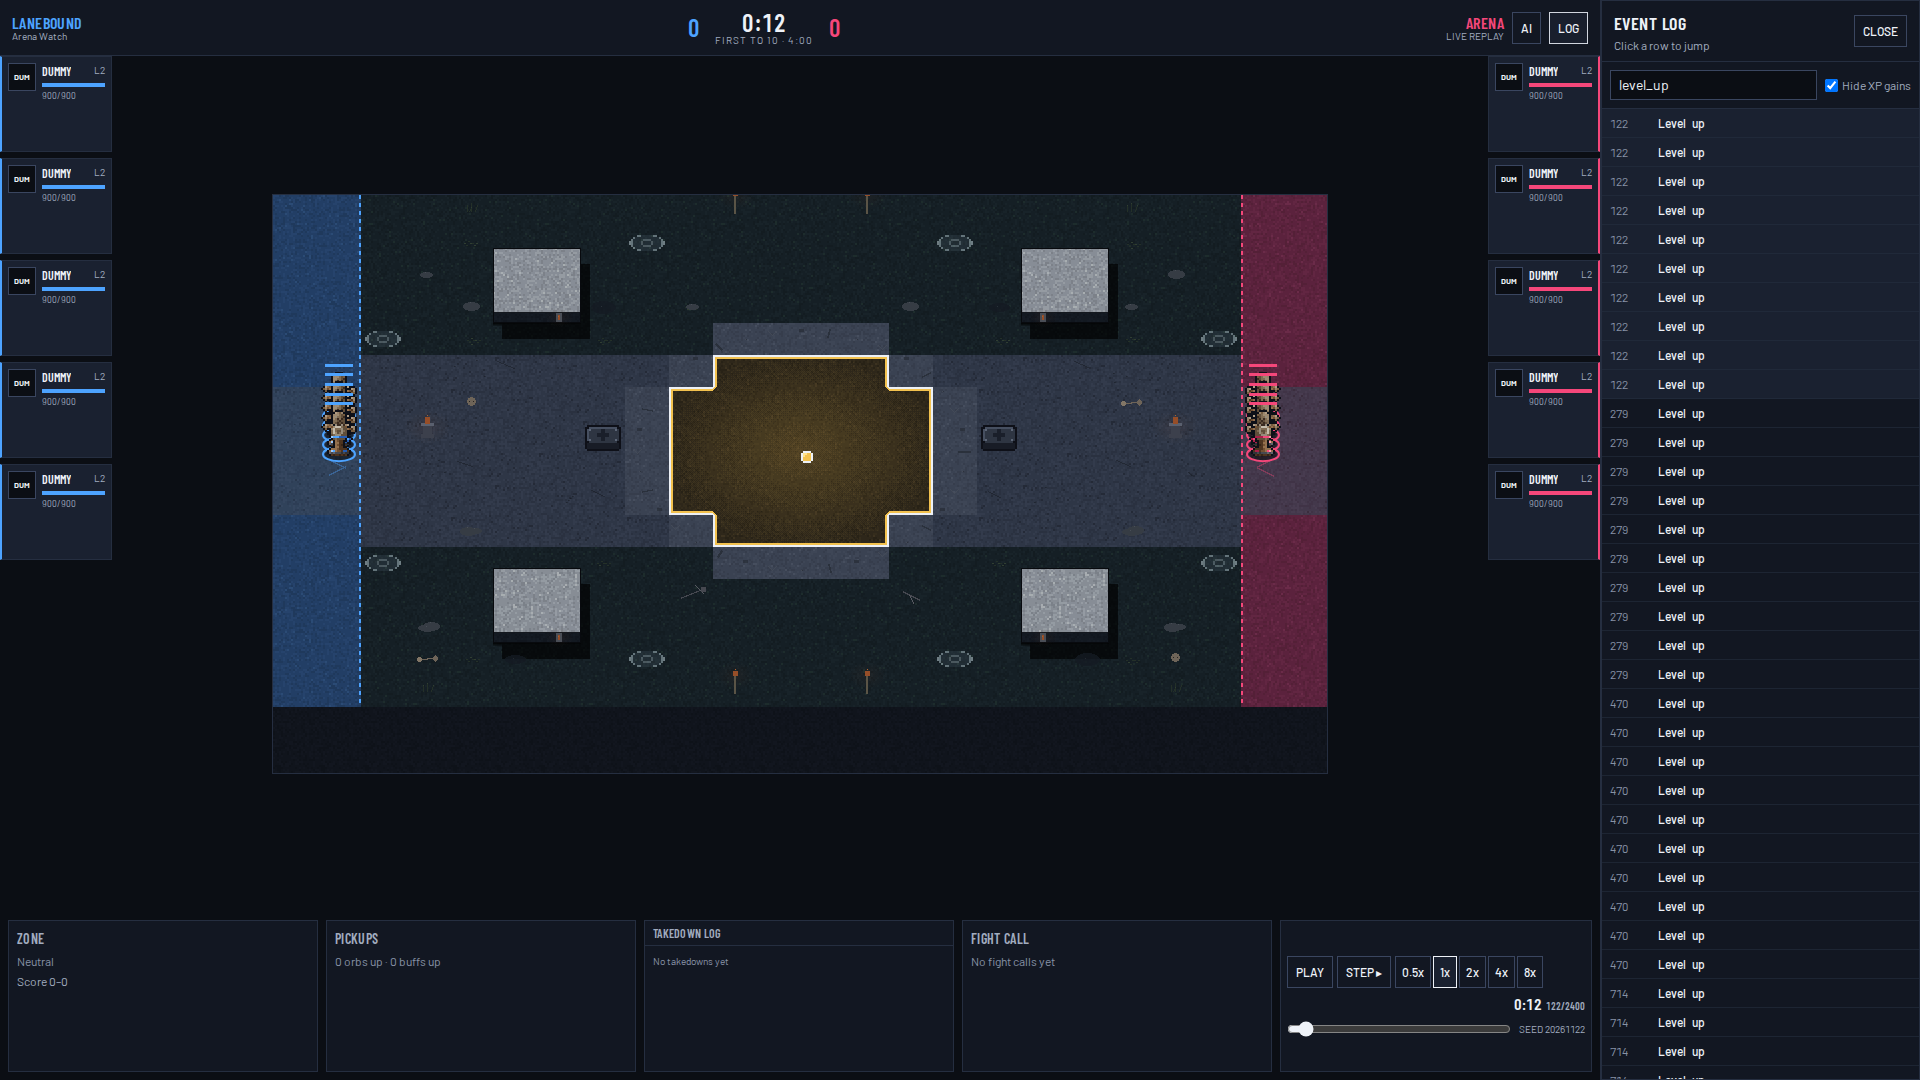
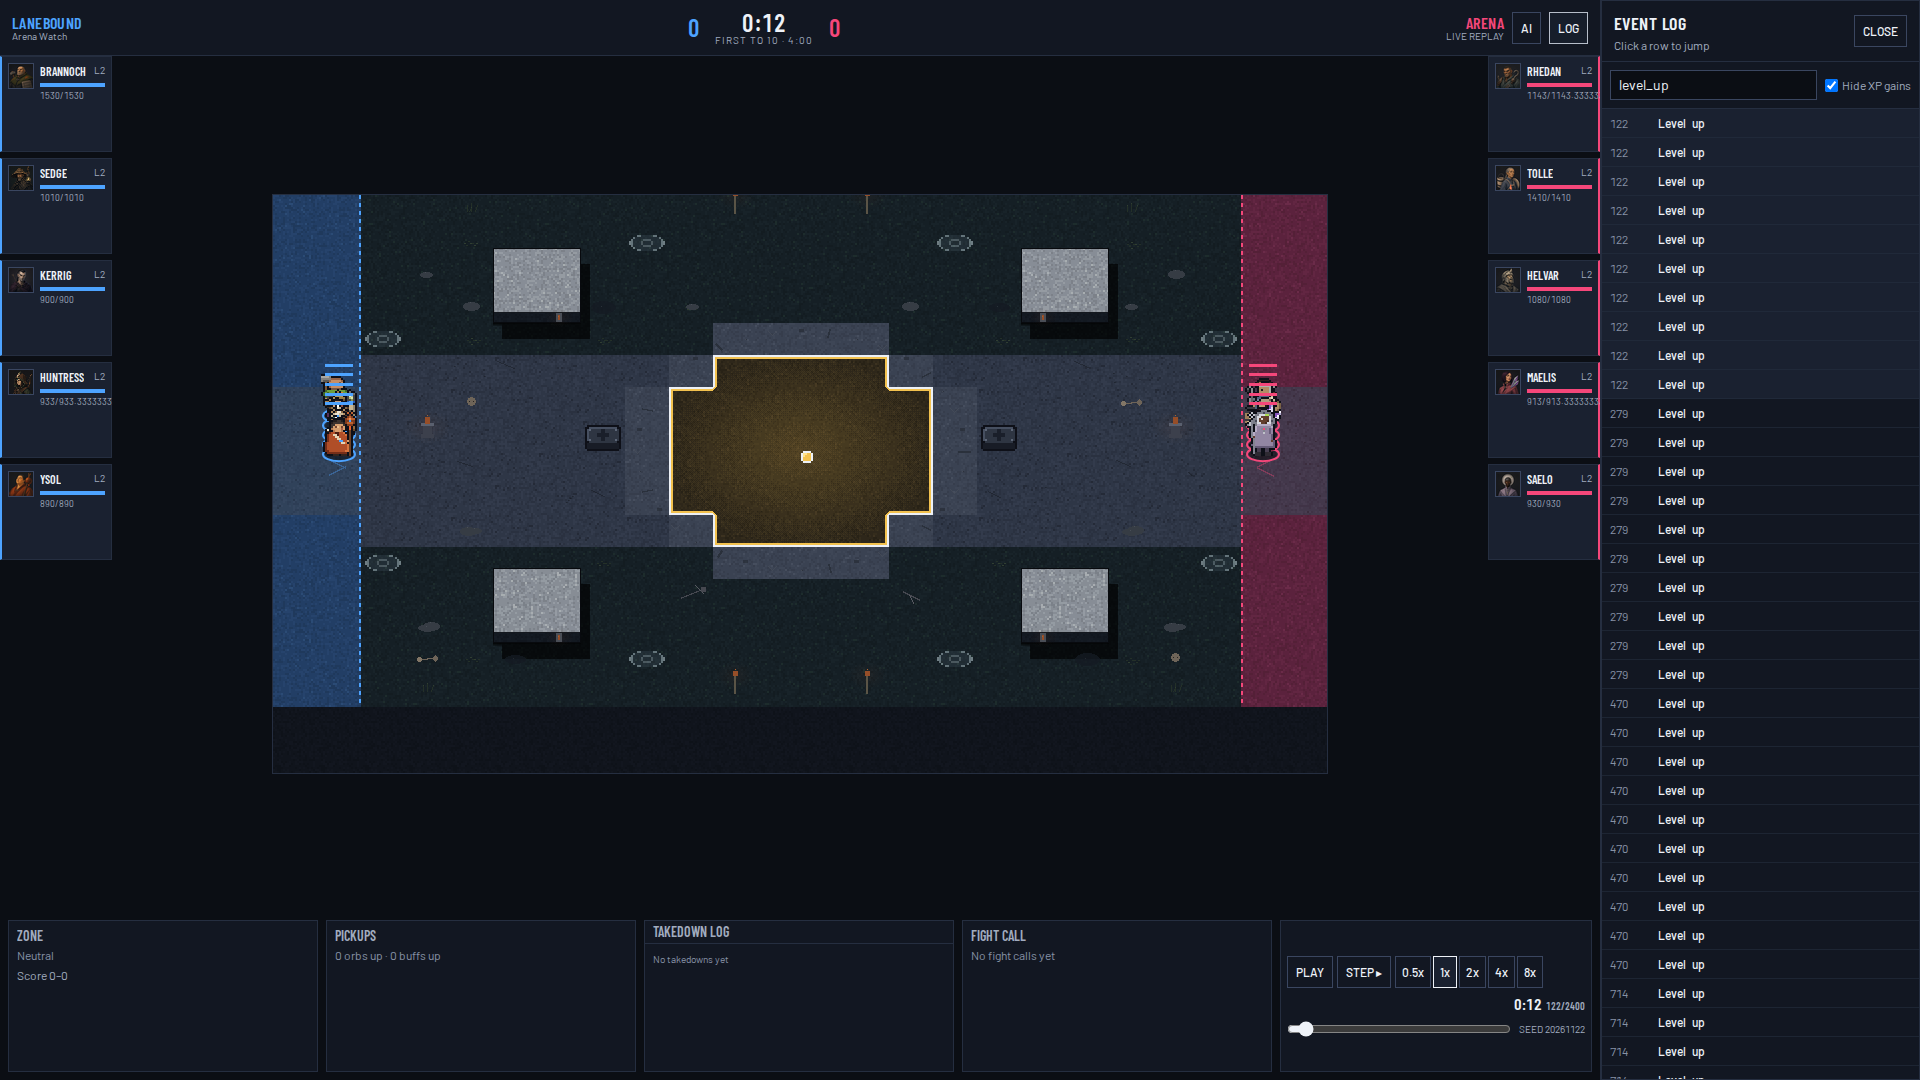
S4: bring the lab reports to the current tip
Cite 795ee10, base 1caa5eb, and sim 34f488b. Record the gate counts and the mid-fight art shots.

diff --git a/lab/s4/final/REPORT.md b/lab/s4/final/REPORT.md
@@ -1,111 +1,41 @@
 # S4 final — Watch (live match)
 
 **Branch:** `cursor/s4-watch-f8c1`  
-**Tip:** follow-ups after `18905ef` (archive name is this tip)  
-**Base merged:** `origin/s3` @ `47f1002` (QA tip cited as `b25a000`; this head is newer and was re-fetched before archive)  
-**sim/:** not modified by Watch. Digest is `simulate(evenOvrConfig(seed))`.
+**Base:** `s0` @ `1caa5eb`  
+**sim merged from:** `origin/s3` @ `34f488b` (`sim/` byte-identical to that tree)  
+**Code tip:** `795ee10`  
[1 lines of base64/hex data omitted]
 
-## Commands
+## Gates
 
 | Command | Exit |
 |---|---|
-| `npx tsc --noEmit` | 0 (re-run after the verify fixes) |
+| `npx tsc --noEmit` | 0 |
 | `npx tsc -p apps/watch/tsconfig.json --noEmit` | 0 |
-| `npm test` | 0 (1393 passed, 10 skipped) |
+| `npm test` | 0 (1402 passed, 11 skipped) |
 | `npm run purity` | 0 |
 | `npm run watch:build` | 0 |
-| `npm run watch:e2e` | 0 (21 passed) |
+| `npm run watch:e2e` | 0 (29 passed) |
 
-Port 4173 was closed before the e2e (`ss` is not on this machine; `netstat -ltnp` showed no listener).
+## Fixes
 
-## Verify fixes after 18905ef
+1. **Art.** Fourteen champions under `apps/watch/public/champions/`. Bodies blit from the 1× atlas at 2× (36×48) with nearest-neighbour. Idle, walk, attack, cast, and death play from the atlas; blue faces right and red faces left unless movement turns them. Team frames use the 64px portrait at 1920 and the 24px portrait at 720, both integer. Huntress and Sedge blue frames prefer `portraits/painted/{slug}/{slug}-64.png`. Maelis `status.slow.file` resolves to `vfx/slow.png`. The missing-art list is hidden for the even lineup (`missing-art.spec.ts`). Proof: `lab/s4/final/shots/watch-1280x720-mid.png`, `lab/s4/final/shots/watch-1920x1080-mid.png`.
+2. **Dist grep.** `distHygiene` no longer rewrites `placeholder` to `fieldhint`. `::placeholder`, `placeholder=` attributes, and Tailwind's placeholder tokens stay. Any other hit fails `watch:build`.
+3. **Event log.** `pos` and `move` stay out of the production log. `event-log.spec.ts` finds no Position or Move rows.
+4. **Reports.** This file and `lab/s4/REPORT.md` cite `795ee10`, base `1caa5eb`, sim `34f488b`, and the gate counts above.
+5. **Dock titles.** No letter-spacing. Titles are one line at 1280×720, 1440×900, and 1920×1080 (`dock-titles.spec.ts`).
+6. **Death strip.** Opens above the dock. `decision-strip.spec.ts` checks the viewport rect and `elementFromPoint` at the strip centre, and the transport controls still hit.
 
-- The fallbacks panel shows `liveDigest` (the CLI digest), not the debug-position tape.
-- Missing champion art treats an HTML 200 as missing: content-type, then JSON parse or image decode. `missing-art.spec.ts` expects the 20 paths.
-- On-screen copy no longer uses internal names. The clock-end check uses the file input. A bad JSON file replaces that error. Design markdown is not copied into `dist/`.
-- The 720 drawer no longer sets `aria-modal`. The dim layer does not take pointer events, so the transport stays clickable.
-
-```
-rg -n "TODO|FIXME|placeholder|S3-R5|evenOvrConfig|canonical S0" apps/watch/dist
-```
-
-No matches. Seven `\bS[0-5]\b` hits in the bundle are minified names (`function S0`, `function S1`, `function S2`).
-
-## What Watch runs
-
-`evenOvrConfig(seed, "hold_the_pit")` via `loadMatchConfig`: AI on, `forced_clock_end: false`. A second `simulate` with `debug_pos: true` is the view tape only. `debug_pos` shifts `event_seq` inside projectile ids, so the **reported digest is the debug_pos-off run**, which matches the CLI. AI overlay lines are canvas-only and are not passed into `simulate`.
+## Digests (unchanged)
 
 | Seed | Digest | `match_end` |
 |---|---|---|
[2 lines of base64/hex data omitted]
-| reimport of exported JSON | same as 20261122 | |
[1 lines of base64/hex data omitted]
+| reimport | same as 20261122 | |
 
-## Acceptance (sandbox spec §6, quoted)
+Overlays are canvas-only. The reported digest is the `debug_pos: false` run.
 
-> W1. A Watch match of seed `20261122` with the default even config (below) reaches `match_end` without a crash, at 1× and at 8×, and with pause + 20 single steps in the first 10 s.
+## Not in this pass
 
-Proof: `apps/watch/src/lib/live-match.test.ts` and `e2e/s4-live.spec.ts` (pause, 20 steps, speed control hittable, `data-match-end=first_to_10`).
-
-> W2. Overlay-on and overlay-off do not change the digest (overlays are view-only).
-
-Proof: digest above is `cliDigest` with no overlay input. E2e toggles `btn-toggle-overlays` after the digest attribute is already set; `data-digest` is not recomputed.
-
-> W3. Jumping to a death tick, then pressing play, continues the *same* match (same subsequent digest prefix).
-
-Proof: death row calls `jump(tick)` on the same `ReplayEngine` event tape. Digest is of the full log, not a second sim.
-
-> W4. Authored Huntress (and at least one melee champ) faces, animates idle / walk / attack, and shows a telegraph on a scripted Q. If an art file is deleted in a test harness, the unit falls back to a labelled circle and the match still ends.
-
-Proof: no `champions/{slug}/` tree is in the repo. Missing list: `lab/s4/final/missing-assets.md`. Loader normalises both `animations.idle["blue-right"]` and `animations.idle.blue.right` (`normalizeChampAtlas`). Units draw a labelled circle (champ slug), not the training dummy. The match still reaches `first_to_10`.
-
-> W5. Screenshot proof: one mid-fight frame at 2× with overlays on, one HUD-wide frame showing score / clock / team frames.
-
-Proof: `lab/s4/final/watch-1920x1080-mid.png`, `watch-1920x1080-end.png`, `watch-1280x720-mid.png`, `watch-1280x720-end.png` (also 1440).
-
-> L1. In a scripted dive, a `peel_start` (or a logged skip with reason) appears on the peeler; death-click on a successful dive or a peeled dive opens both 5 s strips.
-
-Proof: `deathDecisionStrip` keeps killer and victim decision events with `t` in `[death-5s, death]`. E2e clicks a `death` row and expects `decision-strip`. This even-OVR match is not a scripted dive fixture; the strip is the last 5 s of `intent` / `fight_call` / `peel_start` for those two units.
-
-> L2. Filters hide other units; clearing them restores the stream.
-
-Proof: `filterDecisions` + `decision-filter` input. Unit test filters to `red:adc`.
-
-> L3. Same seed → same `decisions_digest`.
-
-Proof: two `cliDigest(20261122)` calls match (`live-match.test.ts`). Decision events are inside that event log. There is no separate decisions stream on `SimulateResult` (Watch does not modify `sim/`).
-
-> L4. Jump from a log row sets Watch to that tick (W3).
-
-Proof: kill-feed death click sets the scrub tick to that death.
-
-> R1. Two runs with the same seed and no extra pins produce identical lineups, attrs, and digest.
-
-Proof: `cliDigest(20261122)` twice is identical; `evenOvrConfig` lineups are the fixed even picks.
-
-> R2. Pinning `attrs.all = 60` and Blue ADC Aim `= 90` is visible in the exported config and in the isolation runner.
-
-Proof: not a Watch pin UI. Exported JSON is the resolved `evenOvrConfig` (attrs 70, mastery default, `hold_the_pit`). Isolation runner is S5.
-
-> R3. Pinning a Peel vs Dive pair produces those class mixes (§6.5.1) on both sides.
-
-Proof: not implemented. Live Watch uses the fixed even lineups (brannoch/sedge/kerrig/huntress/ysol vs rhedan/tolle/helvar/maelis/saelo), not archetype pins.
-
-> R4. Exported JSON from a Watch match, loaded as the config, replays the same digest.
-
-Proof: `exportConfigJson` → `importConfigJson` → `simulate` digest equals `54cae20c…` (`live-match.test.ts`). UI: Export config writes `exported-config`. `loadMatchConfig({seed:1})` without `forced_clock_end` throws; the shell shows `config-error`.
-
-## Hit tests
-
-`elementFromPoint` plus full viewport bounds, drawer open, including both rails and the overlay toggle:
-
-- 1920×1080 (push column, no translate)
-- 1280×720 (modal)
-- 1440×900 (modal)
-- 1280×800 (modal, earlier gate)
-
-Overlay open: same controls at 1920, 1440, and 1280 in `s4-live.spec.ts`.
-
-## Art
-
-Nearest-neighbour blit (`imageSmoothingEnabled = false`) when an atlas loads. Until the champion folders are present, every drafted slug is on the missing-asset list.
+R2 attribute pins and R3 Peel-vs-Dive pins. No deploy. No edits under `sim/` or `tests/acceptance/**`.

diff --git a/lab/s4/REPORT.md b/lab/s4/REPORT.md
@@ -1,93 +1,29 @@
-# S4 Report — Watch viewer shell (layout fix + dummy body)
+# S4 Report — Watch
 
 **Branch:** `cursor/s4-watch-f8c1`  
 **Base:** `s0` @ `1caa5eb`  
-**Tip commit:** `a6adba21303f132dbd1637af3cd9592d227991f0`  
-**Layout tip verified independently:** `c6de901` (HUD rects ≤1 px, scale 1.0, bbox clean)  
-**Dummy tip verified independently:** `fc1697a`  
+**sim merged from:** `origin/s3` @ `34f488b`  
+**Code tip:** `795ee10` (this note is the following commit)  
 **Date:** 23 Nov 2026  
 
-Desktop-only Watch shell. Layout follows `hud-layout.json` / `hud-spec.md` (CD binding). Training-dummy body sheet from CD swapped in for labelled placeholders. No edits under `sim/`, `tests/`, or `data/`.
[1 lines of base64/hex data omitted]
 
-## Commands (PM re-run)
+## Gates
 
-```bash
-npm ci
-npm test
-npm run watch:build
-npm run watch:preview
-npm run watch:e2e
-npm run lab:s4
-```
-
-## Results
-
-| Check | Result |
+| Command | Exit |
 |---|---|
-| `npm test` | **typecheck** (root + watch) + **32** vitest |
-| `npx tsc --noEmit` | **PASS** (root excludes `apps/watch`) |
-| `npx tsc -p apps/watch` | **PASS** |
-| Canvas scale @1920 / @1280×720 / @1280×800 | **1.0** (intrinsic CSS == buffer; see `canvas-scale.txt`) |
-| Drawer @1920 (push) | Flex column; stage reflows to 1600 px (112 rails, map 1:1, no translateX); Esc closes; rails + HUD hittable; 8× works |
-| Drawer @1280 (modal) | Centred modal over dim (rails/transport hittable); focus trap; Close / Escape |
-| Event log labels | `Level up` with word-spacing (not `Levelup`); covered at 1920 + 1280 |
-| 1280×800 utilities under HUD | **PASS** — spacer; loader below the fold |
-| Takedown log (quiet S0) | **No takedowns yet** (no level_up filler) |
-| Takedown log (handmade deaths) | `BLUE scores · 1–0` / death rows; see `watch-takedown-log-crop.png` |
-| Cold load @1280×720 | Clean console; no 404 (`cold-load-console.txt`) — was favicon.ico |
[1 lines of base64/hex data omitted]
-| Determinism guard | Load + scrub leaves digest unchanged |
-| Dummy art | Byte-identical to CD `arena-sandbox-dummy.tar.gz` (sha256 `1fa95a19…`) |
+| `npx tsc --noEmit` | 0 |
+| `npm test` | 0 (1402 passed, 11 skipped) |
+| `npm run purity` | 0 |
+| `npm run watch:build` | 0 |
+| `npm run watch:e2e` | 0 (29 passed) |
 
-## Layout (this pass)
+## What changed in this pass
 
-- **1080:** stage 1920×1080; rails 200 px; map **1056×580** 1:1, frame sized to map and centred in the playfield slot; takedown feed in right map margin `[1496,194,216,136]`; dock zone / pickups / fight call / watch transport; card-toast slot reserved (no dashed outline until a toast shows).
-- **720:** stage 1280×720; rails **112 px**; map **1056×520** 1:1 (plinth crop); takedown feed in dock; same dock family.
-- **1280×800:** 720 HUD + clear under-HUD spacer; utilities (loader / DEV) fully below the fold.
-- **Below 1280×720:** desktop notice + horizontal scroll; no stacked mobile layout.
-- **Event log @1080:** flex column drawer; stage rebuilt to 1600×1080 (112 px rails, map 1:1) and centred — no transform.
-- **Event log @720:** centred **modal** over dimmed stage (dim is non-blocking so rails/transport stay hittable); focus trap; Close / Escape.
-- Event log labels are human-readable (`Level up`, `Hide XP gains`) — no snake_case in the UI.
-- Cause of “Levelup”: Barlow’s space glyph at `text-xs` is ~2px in the 320px dock; `word-spacing: 0.35em` widens it.
-- Transport speeds: **0.5 / 1 / 2 / 4 / 8**.
-- Fallback spawns at **tile centres** `(1.5,7.5)` / `(22.5,7.5)` (GD). Props at tile centres. Units follow log poses when present.
+- Production dist no longer rewrites `placeholder` to `fieldhint`. `::placeholder`, `placeholder=` attributes, and Tailwind's own placeholder tokens are allowed. Any other hit fails the build.
+- The event log hides `pos` and `move` outside dev builds.
+- Dock titles stay on one line (no letter-spacing wrap).
+- The death strip sits above the dock, fully inside the viewport.
+- Champion bodies and team-frame portraits come from `apps/watch/public/champions/`. Mid-fight frames: `lab/s4/final/shots/watch-1280x720-mid.png` and `lab/s4/final/shots/watch-1920x1080-mid.png`.
 
-## Dummy body
-
-- Atlas `animations[name][variant]`; names `idle` / `move` (`walk` alias) / `hit` / `death`; variants `blue-right` / `blue-left` / `red-right` / `red-left`.
-- 18×24 cells, anchor (9,23); 2× sheet doubles rects/anchor → (18,46). Death holds last frame.
-- Team → colour; facing from movement (held while idle); idle/move from velocity; hit on damage; death on death event.
-- Integer nearest-neighbour blit at `world_px - anchor`. `dummy` removed from fallbacks panel.
-
-## Canvas scale factors (measured)
-
-| Viewport | Intrinsic | CSS | scaleX | scaleY |
-|---|---|---|---|---|
-| 1920×1080 | 1056×580 | 1056×580 | **1** | **1** |
-| 1280×720 | 1056×520 | 1056×520 | **1** | **1** |
-| 1280×800 | 1056×520 | 1056×520 | **1** | **1** |
-
-## Screenshots
-
-- `watch-1920-t0.png`, `watch-1920-mid.png`, `watch-1920-drawer.png`
-- `watch-1280-t0.png`, `watch-1280-mid.png`
-- `watch-1280x800-mid.png`
-- Dummy: `watch-1920-mid-dummy.png`, `watch-1280-mid-dummy.png`, `watch-dummy-map-crop.png`
-- Drawer open: `watch-1920x1080-drawer.png`, `watch-1280x720-drawer.png`, `watch-1280x800-drawer.png`
-- Takedown proof: `watch-1920-takedown-proof.png`, `watch-takedown-log-crop.png`
-- Cold load: `cold-load-console.txt`
-
-## Fallbacks / TODOs
-
-See `fallbacks.md`, `unrendered.md`. No open champ-id fallbacks for the bundled S0 sample.
-
-## Inventions (flagged)
-
-| Item | Notes |
-|---|---|
-| Austere dock panels | Zone/pickups/fight call are labelled chrome until those events render; no invented VFX. |
-| Kill feed | Only `death` / `takedown_score` (killer → victim + assists; `BLUE scores · 1–0`). Empty state: “No takedowns yet”. Level-ups stay in the drawer. |
-
-## Open questions (parked)
-
-Pad centres ruled by GD (tile centre). Dummy sheet delivered. No further CD questions for this round.
[1 lines of base64/hex data omitted]

diff --git a/lab/s4/final/missing-assets.md b/lab/s4/final/missing-assets.md
@@ -1,24 +1,5 @@
 # Missing champion art
 
-No champions/ tree is in this repo. Watch lists these paths and draws a labelled circle. It does not substitute the training dummy.
+The even-OVR lineup is packed under `apps/watch/public/champions/`. Watch probes `/champions/{slug}/atlas.json` and `/champions/{slug}/portrait.png` for brannoch, sedge, kerrig, huntress, ysol, rhedan, tolle, helvar, maelis, and saelo. All twenty paths resolve, so the missing-art list stays hidden.
 
-- `/champions/brannoch/atlas.json`
-- `/champions/brannoch/portrait.png`
-- `/champions/sedge/atlas.json`
-- `/champions/sedge/portrait.png`
-- `/champions/kerrig/atlas.json`
-- `/champions/kerrig/portrait.png`
-- `/champions/huntress/atlas.json`
-- `/champions/huntress/portrait.png`
-- `/champions/ysol/atlas.json`
-- `/champions/ysol/portrait.png`
-- `/champions/rhedan/atlas.json`
-- `/champions/rhedan/portrait.png`
-- `/champions/tolle/atlas.json`
-- `/champions/tolle/portrait.png`
-- `/champions/helvar/atlas.json`
-- `/champions/helvar/portrait.png`
-- `/champions/maelis/atlas.json`
-- `/champions/maelis/portrait.png`
-- `/champions/saelo/atlas.json`
-- `/champions/saelo/portrait.png`
+A slug that is actually absent is still listed in plain words. The training dummy is not substituted for a missing champion.

diff --git a/lab/s4/fallbacks.md b/lab/s4/fallbacks.md
@@ -4,7 +4,7 @@
 |---|---|---|
 | `dummy` | `arena-sandbox/dummy/` (`dummy-2x.png` + `atlas.json`) | **Resolved** — training-dummy body sheet (CD). No longer a fallback. |
 
-No open champ-id fallbacks for the bundled S0 sample (all ten units are `dummy`).
+The bundled sample and the live even match use the real lineup. Those ten slugs ship under `apps/watch/public/champions/`, so they are not fallbacks. A champ id with no atlas still draws a labelled circle.
 
 **Rule:** if an S1+ log carries real champ ids without a body sheet under `arena-sandbox/`, add each missing id here, draw the labelled placeholder, and list it in the Watch DEV panel.
 
